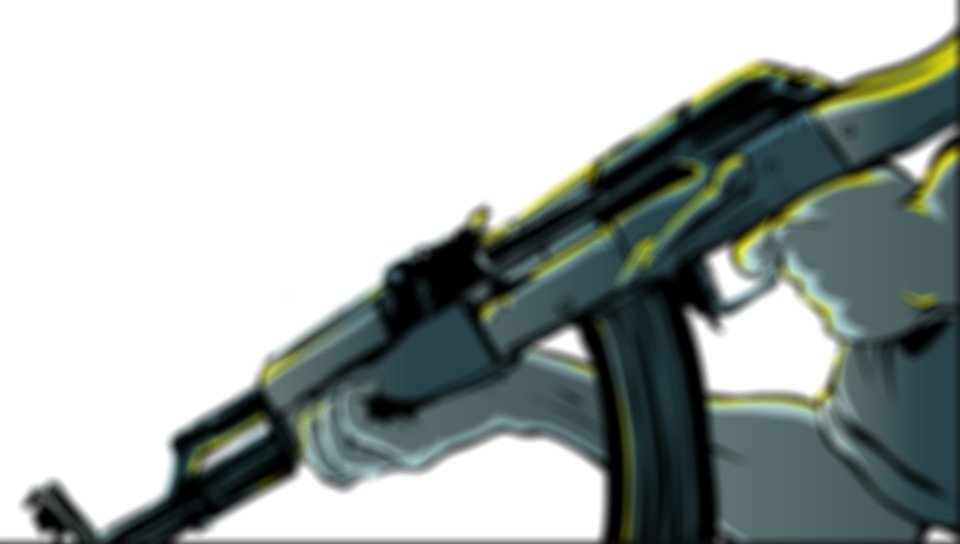
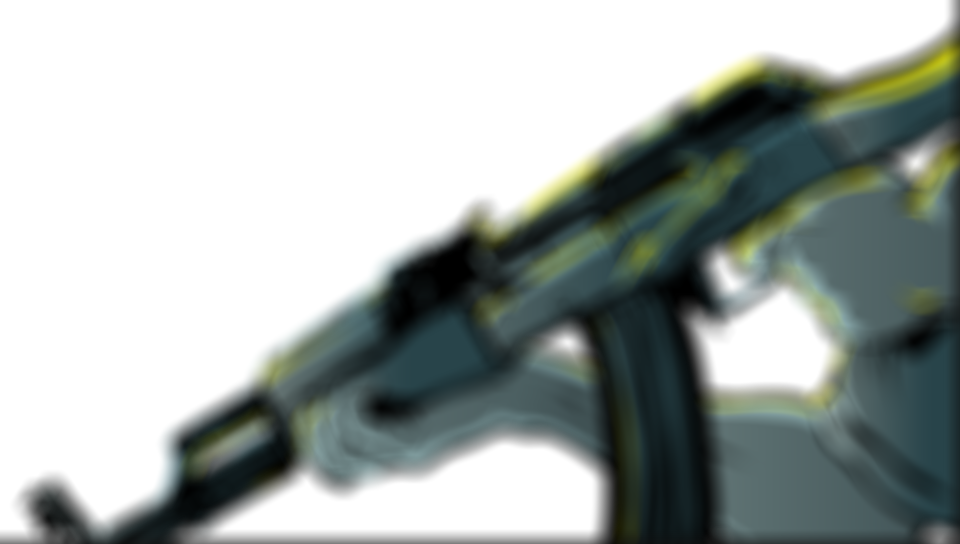
Blurring the gun

diff --git a/src/slides/slide3.js b/src/slides/slide3.js
@@ -3,6 +3,9 @@ define(["../slide"], function(Slide){
 	
 	var _lastX = 0, _lastY = 0;
 	var _slideElement = document.getElementById("deck-slide");
+	var _ak47Element = document.getElementById("ak47");
+	var _ak47NonBlurredElement = document.getElementById("ak47-non-blurred");
+	var _ak47BlurredElement = document.getElementById("ak47-blurred");
 
   var slide = new Slide("deck-slide", {
     update: function(){
@@ -12,7 +15,13 @@ define(["../slide"], function(Slide){
 		if (Math.abs(halfWidth - _lastX) < CENTER_SIZE &&
 			Math.abs(halfHeight - _lastY) < CENTER_SIZE)
 		{
-			// Play transation
+			_ak47NonBlurredElement.style.opacity = 1;
+			//_ak47BlurredElement.style.opacity = 0;
+		}
+		else
+		{
+			_ak47NonBlurredElement.style.opacity = 0;
+			//_ak47BlurredElement.style.opacity = 1;
 		}
     }
   });

diff --git a/index.html b/index.html
@@ -27,7 +27,7 @@
       <img src="assets/media/deck-background.png" alt=""/>
 	  <img id="two-men" src="assets/media/two-men.png" alt="" data-parallax data-parallax-z="0.01" data-parallax-axis="x"/>
 	  <div id="ak47" data-parallax data-parallax-z="0.2" data-parallax-axis="x">
-		<img src="assets/media/ak47.png" alt=""/>
+		<img id="ak47-non-blurred" src="assets/media/ak47.png" alt=""/>
 		<img id="ak47-blurred" src="assets/media/ak47-blurred.png" alt=""/>
 	  </div>
     </div>

diff --git a/css/ak47.css b/css/ak47.css
@@ -15,9 +15,22 @@
 #ak47 {
 	top: 136px;
 	left: 217px;
-	-webkit-transition: all 1s;
-	transition: all 1s;
+	-webkit-transition: all .5s ease-in-out;
+	transition: all 0.5s ease-in-out;
 }
 #ak47 img {
 	position: absolute;
+}
+#ak47-non-blurred {
+	opacity: 1;
+	filter: blur(strength=50);
+}
+#ak47-blurred {
+	opacity: 0;
+}
+
+#ak47-non-blurred,
+#ak47-blurred {
+	-webkit-transition: all .5s ease-in-out;
+	transition: all 0.5s ease-in-out;
 }
